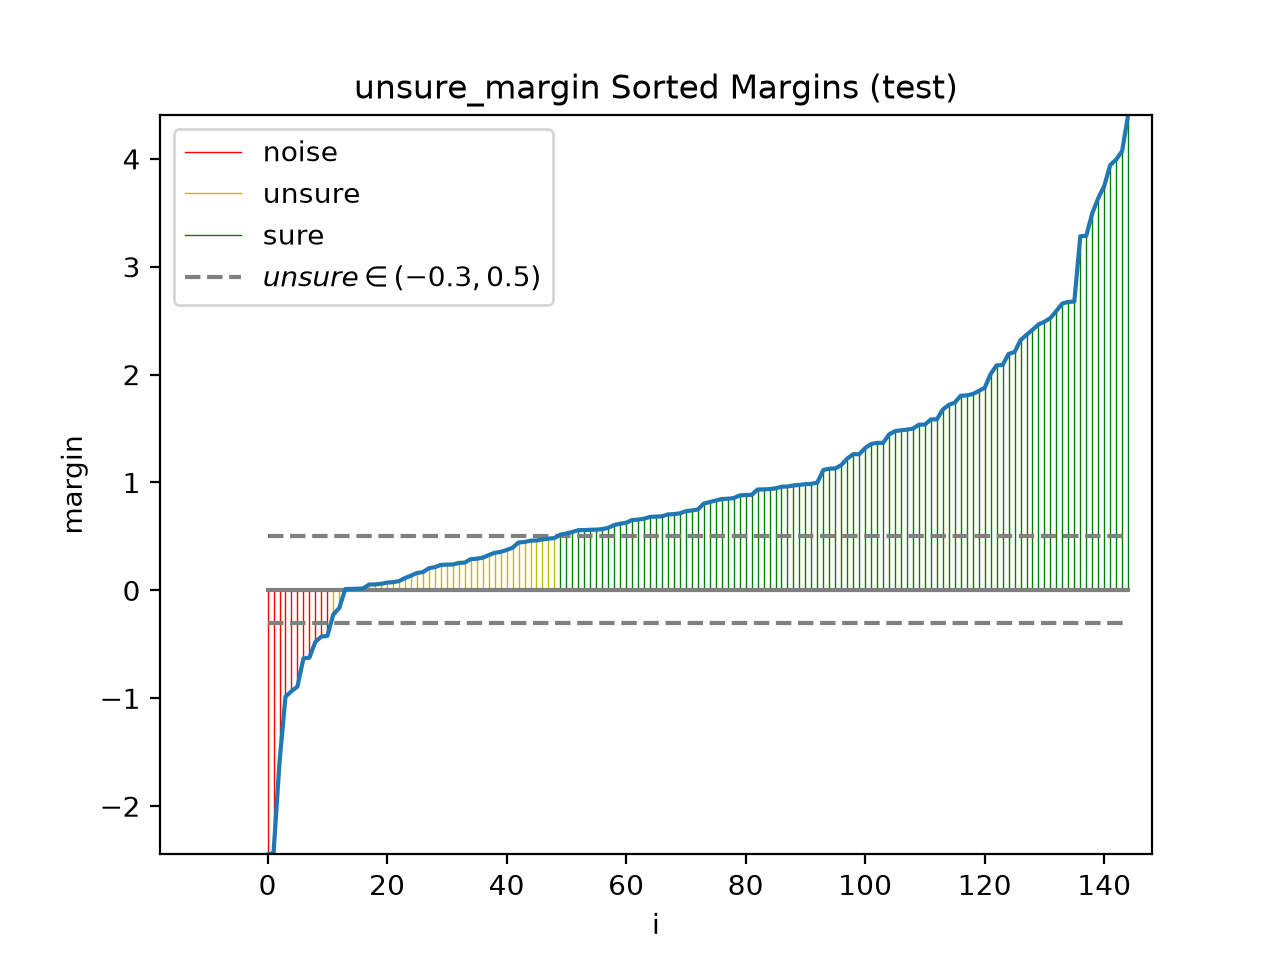
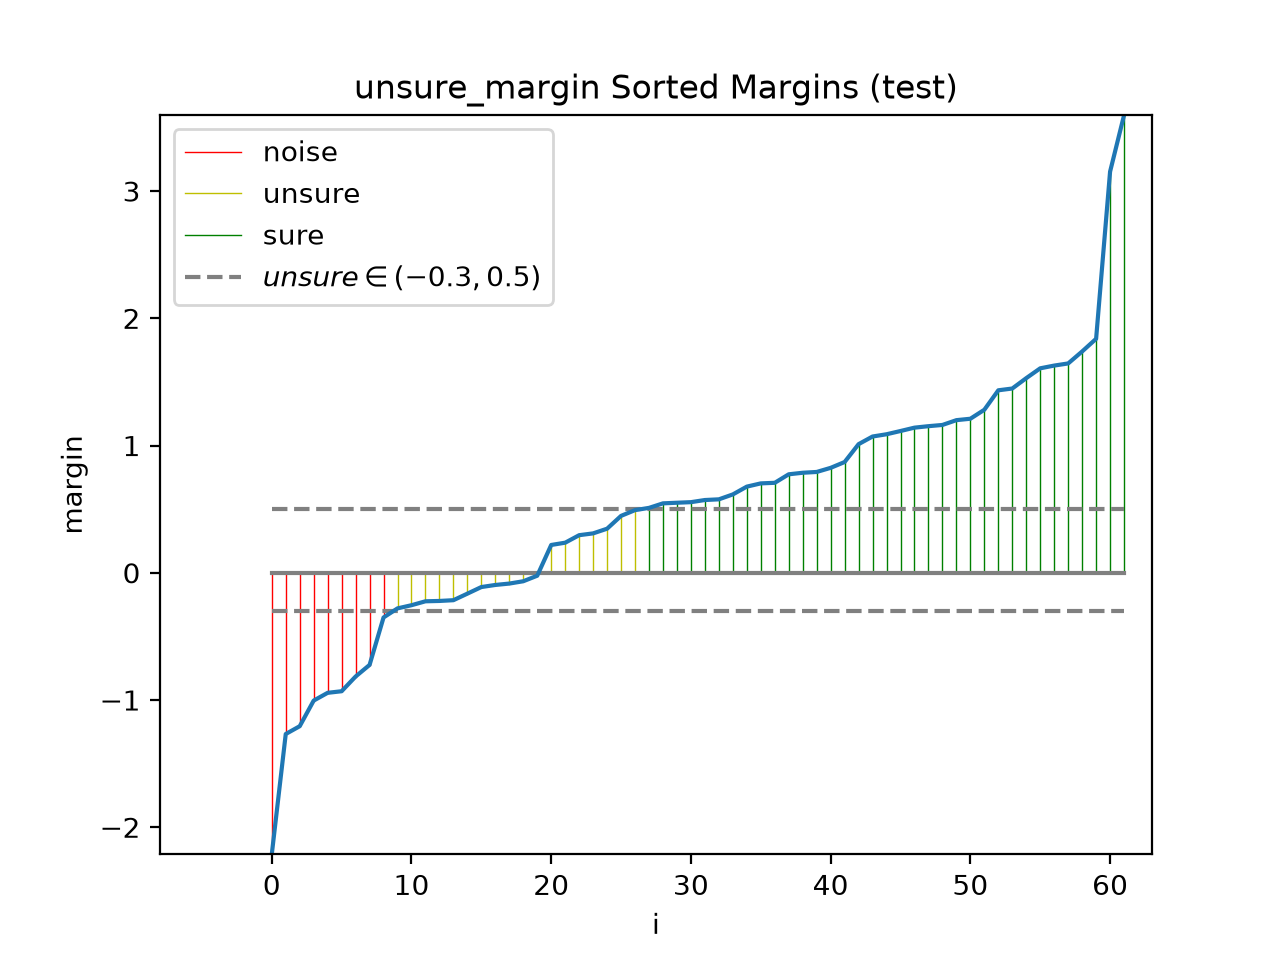
Remove margins caching

diff --git a/students/potapov-sa/lab1/source/src/model.py b/students/potapov-sa/lab1/source/src/model.py
@@ -15,7 +15,6 @@ class LossHistory:
 
 
 class Model(ABC):
-    _margins: Optional[np.ndarray]
     _metrics: Metrics
     _loss_history: Optional[LossHistory]
     _loss_history_is_loggable: bool = True
@@ -23,7 +22,6 @@ class Model(ABC):
     def __init__(self, name: Optional[str] = None):
         self._name = name
         self._metrics = Metrics()
-        self._margins = None
         self._loss_history = None
 
     def calc_margins_sample(
@@ -61,7 +59,6 @@ class Model(ABC):
         return fit_res
 
     def evaluate(self, sample: DataSample) -> Metrics:
-        self._margins = self.calc_margins_sample(sample)
         self._metrics.measure(self, sample)
         return self._metrics
 
@@ -75,10 +72,6 @@ class Model(ABC):
     @property
     def name(self) -> str:
         return self._name if self._name else self.__class__.__name__
-
-    @property
-    def margins(self) -> Optional[np.ndarray]:
-        return self._margins
 
     @property
     def metrics(self) -> Metrics:

diff --git a/students/potapov-sa/lab1/source/main.py b/students/potapov-sa/lab1/source/main.py
@@ -163,13 +163,13 @@ def main():
         
         print(f'{i}/{N}', end='\r', flush=True)
 
-    print('\n\nBest metrics:')
+    print('\n\nBest metrics (train):')
     print_models_metrics(*[model_tuple[0] for model_tuple in best_models.values()])
 
     best_custom_model, best_custom_model_test_sample = None, None
     for model, test_sample in best_models.values():
         plot_margins(model, test_sample, filename=model.name)
-        if model._loss_history_is_loggable:
+        if model.loss_history_is_loggable:
             plot_loss_history(model)
         if model.name != 'ref' and (
             best_custom_model is None

diff --git a/students/potapov-sa/lab1/source/src/plot.py b/students/potapov-sa/lab1/source/src/plot.py
@@ -27,7 +27,7 @@ def _get_savefig_path(filename: str, folder: str = 'img', ext: str = 'png') -> s
 
 
 def plot_margins(model: Model, sample: DataSample, filename: Optional[str] = None):
-    margins = model.margins if model.margins is not None else model.calc_margins_sample(sample)
+    margins = model.calc_margins_sample(sample)
     sorted_margins: list[np.float64] = sorted(list(margins))
     plot_x = np.array([i for i in range(len(sorted_margins))])
     unsure_range: tuple[float, float] = (-0.3, 0.5)

diff --git a/students/potapov-sa/lab1/README.md b/students/potapov-sa/lab1/README.md
@@ -345,7 +345,7 @@ def solution_corr(
 
 ```plaintext
 Accuracy  Precision    Recall
-0.875862   0.844444  0.950000
+0.868966   0.835165  0.950000
 ```
 
 **График функции потерь на `train` и `test`**
@@ -398,7 +398,7 @@ def solution_multistart(
 
 ```plaintext
 Accuracy  Precision    Recall
-0.882759   0.867470  0.923077
+0.889655   0.929577  0.857143
 ```
 
 **График функции потерь на `train` и `test`**
@@ -441,7 +441,7 @@ def solution_shuffling(
 
 ```plaintext
 Accuracy  Precision    Recall
-0.896552   0.896104  0.907895
+0.889655   0.855556  0.962500
 ```
 
 **График функции потерь на `train` и `test`**
@@ -474,7 +474,7 @@ def solution_unsure_margin(
 
 ```plaintext
 Accuracy  Precision    Recall
-0.910345   0.867470  0.972973
+0.848276   0.823529  0.909091
 ```
 
 **График функции потерь на `train` и `test`**
@@ -504,7 +504,7 @@ def solution_reference(
 
 ```plaintext
 Accuracy  Precision    Recall
-0.965517   0.986667  0.948718
+0.972414   0.987500  0.963415
 ```
 
 **График функции потерь на `train` и `test`**
@@ -515,40 +515,40 @@ Accuracy  Precision    Recall
 
 При числе запусков $N=100$ были получены следующие наилучшие метрики классификации (по `accuracy`) по каждой модели:
 ```plaintext
-Best metrics:
+Best metrics (train):
                Accuracy  Precision    Recall
-ref            0.965517   0.986667  0.948718
-unsure_margin  0.910345   0.867470  0.972973
-shuffling      0.896552   0.896104  0.907895
-multistart     0.882759   0.867470  0.923077
-corr           0.875862   0.844444  0.950000
+ref            0.972414   0.987500  0.963415
+multistart     0.889655   0.929577  0.857143
+shuffling      0.889655   0.855556  0.962500
+corr           0.868966   0.835165  0.950000
+unsure_margin  0.848276   0.823529  0.909091
 ```
 
-Таким образом, лучшей самописной реализацией (по обучающей выборке `train`) оказалась модель с предъявлением по модулю отступа (`unsure_margin`).
+Таким образом, лучшей самописной реализацией (по обучающей выборке `train`) оказалась модель со случайной инициализацией весов через мультистарт (`multistart`).
 
 ## 11. Сравнение лучшей реализации с эталонной
 
 ```plaintext
-Best custom model is: unsure_margin
+Best custom model is: multistart
 
-unsure_margin metrics:
+multistart metrics:
        Accuracy  Precision    Recall
-train  0.910345   0.867470  0.972973
-test   0.758065   0.729167  0.945946
+train  0.889655   0.929577  0.857143
+test   0.693548   0.727273  0.705882
 
 ref metrics:
        Accuracy  Precision    Recall
-train  0.965517   0.986667  0.948718
-test   0.741935   0.688889  0.939394
+train  0.972414     0.9875  0.963415
+test   0.725806     0.6875  0.758621
 
 test metrics comp:
                Accuracy  Precision    Recall
-unsure_margin  0.758065   0.729167  0.945946
-ref            0.741935   0.688889  0.939394
+multistart     0.693548   0.727273  0.705882
+ref            0.725806     0.6875  0.758621
 ```
 
-По всем метрикам (на тестовой выборке `test`) лучшая самописная реализация `unsure_margin` оказалась лучше эталонной реализации `ref`:
+Сравнение метрик (на тестовой выборке `test`) лучшей самописной реализации `multistart` и эталонной реализации `ref`:
 
-- По `accuracy`: на 2.2%
-- По `precision`: на 5.8%
-- По `recall`: на 0.7%
+- По `accuracy`: эталонная на 4.7% лучше самописной
+- По `precision`: самописная на 5.8% лучшей эталонной
+- По `recall`: эталонная на 7.5% лучшей самописной
